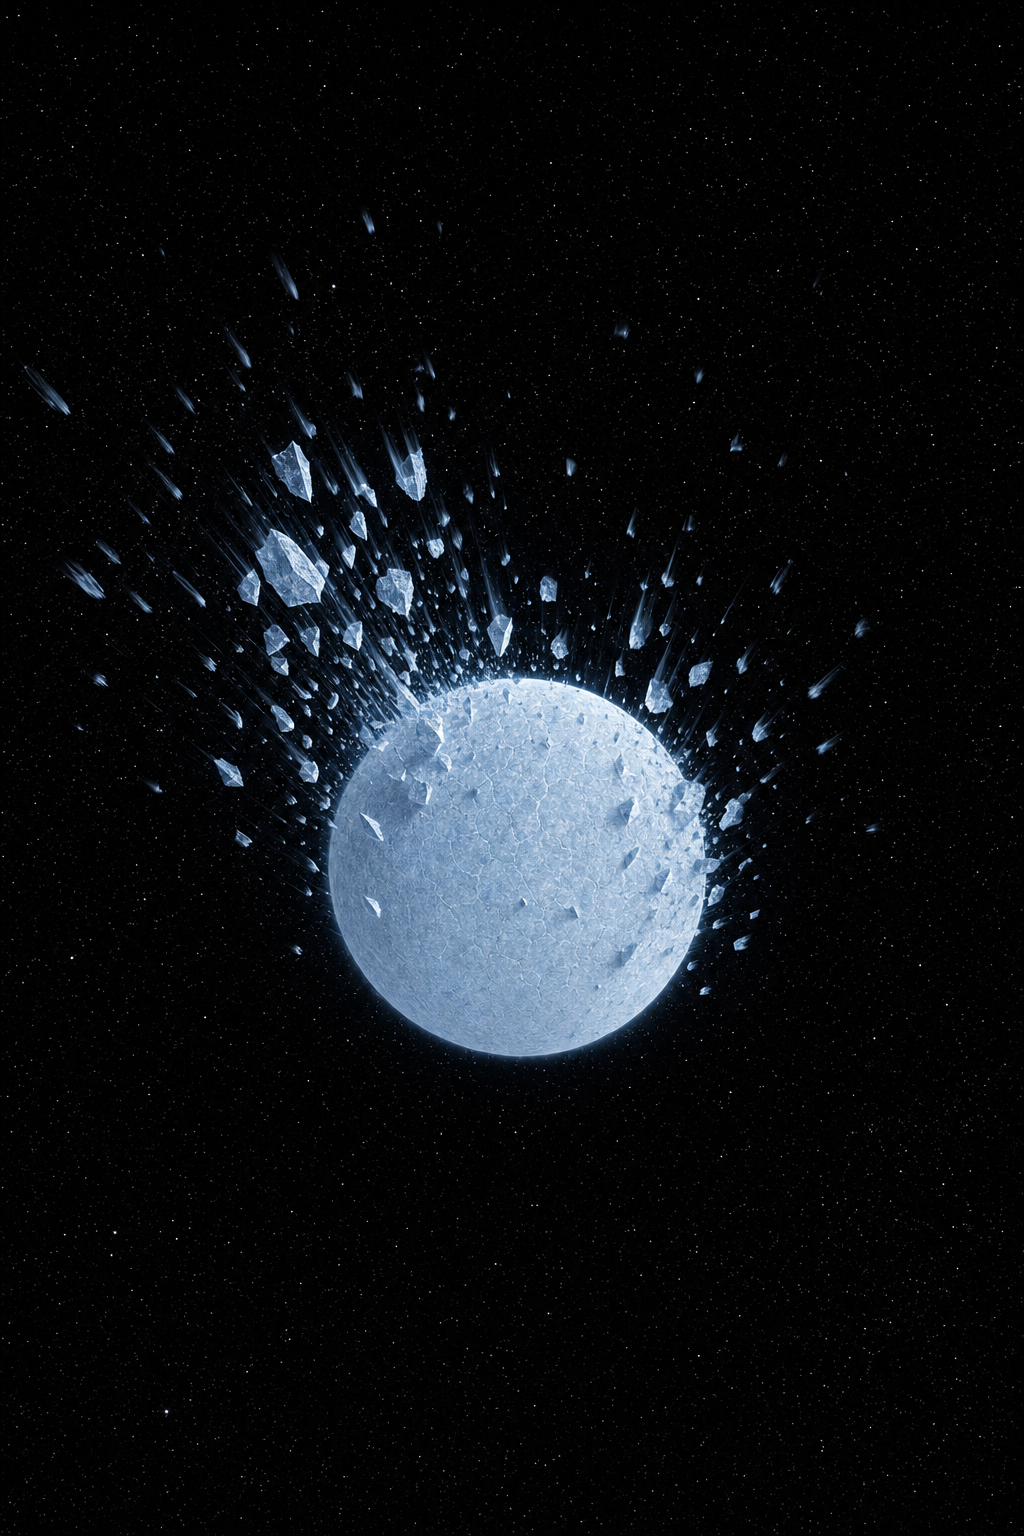
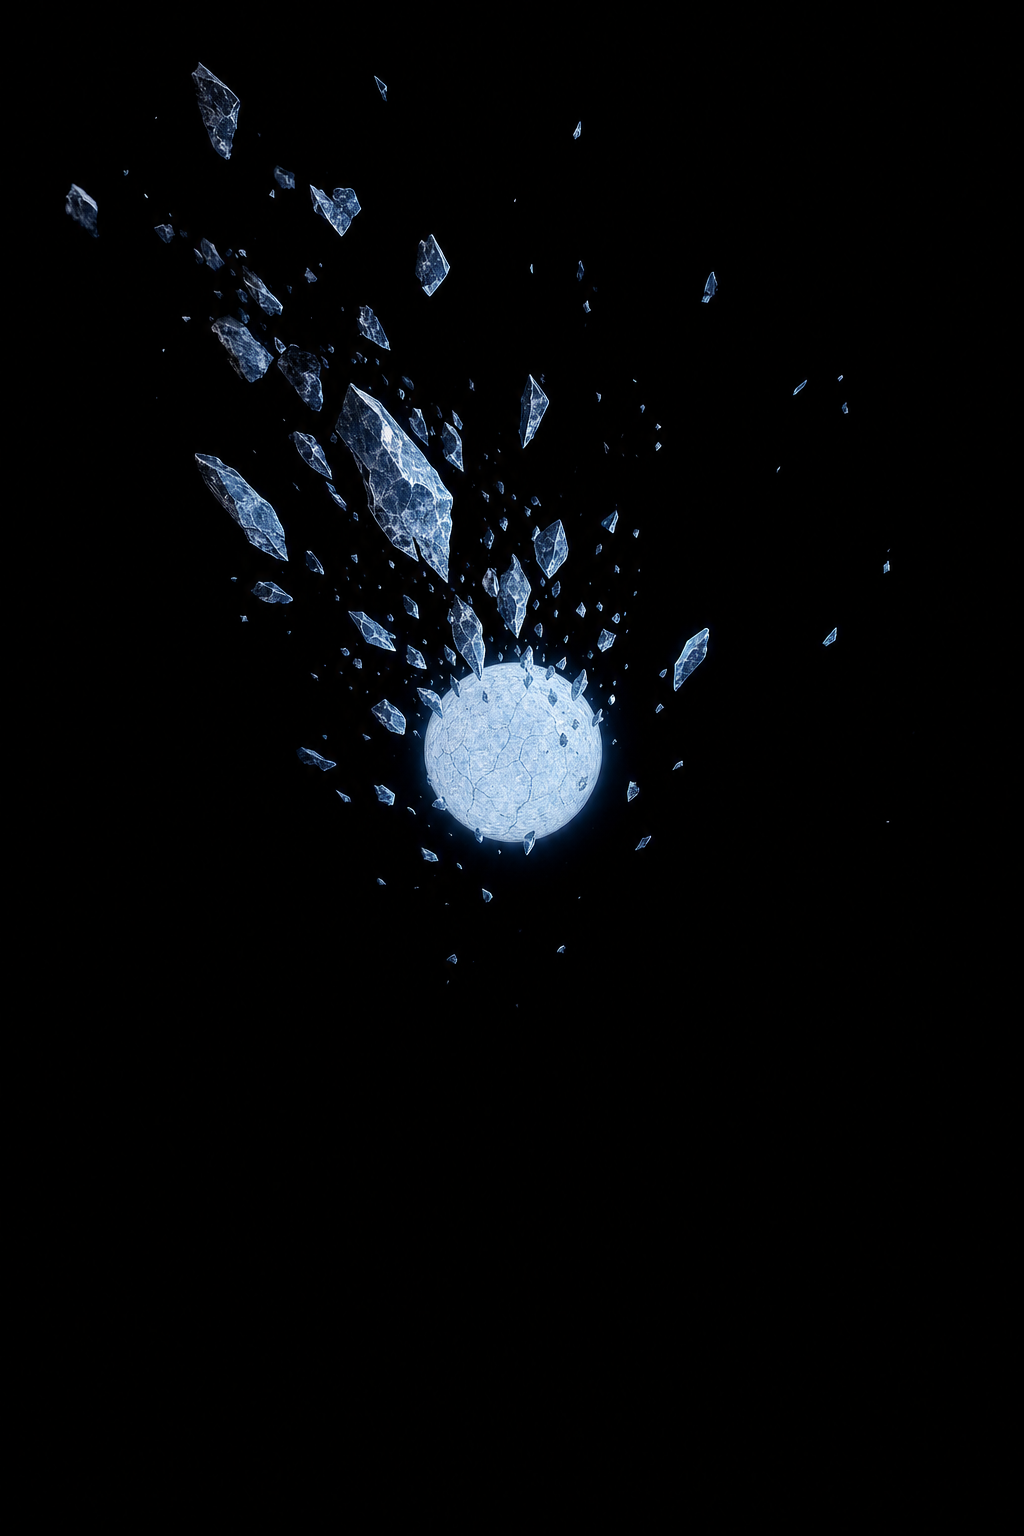
refactor: enhance episode 7 prompts and visuals for clarity and consistency
Updated the shot descriptions in `CHANDRASEKHAR_PROMPTS.md` and `science_prompts.py` to improve clarity and visual coherence, focusing on the depiction of solid blue-white dwarf stars. Added new still images and reference files in the `i2v_stills` directory to support the revised content. This update aims to enhance viewer engagement and maintain consistency across the series.

diff --git a/local_runner/science_prompts.py b/local_runner/science_prompts.py
@@ -461,15 +461,27 @@ _EP07_BEATS = [
         "pause_ms": 280,
         "num_frames": 153,
         "shot": (
-            "Cinematic locked medium shot, one frozen moment: the SAME solid white "
-            "dwarf star at the same size and same center of frame, perfectly circular "
-            "silhouette, filled opaque disk, a steady stream of glowing gas landing on "
-            "its upper edge, its hard blue-white crust already split by sharp jagged "
-            "fracture lines, blinding white-gold light glowing up through the cracks "
-            "from a bright solid core beneath, crust plates rigid and rock-like, round "
-            "edge fully intact, pure black void, photoreal cinematic CGI, vertical "
-            "9:16, locked camera, no people, no faces, NO text, NO letters, NO logos, "
-            "no watermarks, not melting goo, not a soft blob, not a ring, not hollow"
+            "Cinematic locked medium shot, one frozen moment: the SAME solid "
+            "blue-white white dwarf star as shot 1, same center of frame, the same "
+            "size or slightly smaller (the disk spans about two-thirds of the frame "
+            "width and never more), perfectly sharp circular silhouette, filled "
+            "opaque disk. A broad, diffuse curtain of pale blue-white gas arcs in "
+            "from off-frame at the lower left and upper right and pours onto the "
+            "star, spreading across a wide patch of its upper-left surface as a "
+            "low, flat glowing splash that hugs the crust. The mass lands on the "
+            "surface; it does not shoot out from it. The star's hard, rigid, "
+            "rock-like blue-white crust is split by sharp jagged fracture lines, "
+            "with cool white light glowing up through the cracks from a bright "
+            "solid core beneath. The crust plates are rigid and unbroken in shape, "
+            "the round edge fully intact, and the only light comes from the "
+            "surface, the cracks and the infall. At most one faint thin secondary "
+            "wisp near the edge, far dimmer than the infall. Pure black void, cool "
+            "blue-white palette throughout, photoreal cinematic CGI, vertical 9:16, "
+            "locked camera, no people, no faces, NO text, NO letters, NO logos, no "
+            "watermarks, NO polar jet, no beam, no light column, no pillar, no "
+            "bipolar outflow, no vertical shaft of light from the top or bottom of "
+            "the star, no gold, no orange, not melting goo, not a soft blob, not a "
+            "ring, not hollow, no halo"
         ),
     },
     {
@@ -481,16 +493,26 @@ _EP07_BEATS = [
         # Collapse as a SOLID ball already smaller; ep06 shot4 lesson:
         # never let the center read as a swirl, hole, vortex or portal.
         "shot": (
-            "Cinematic locked close-up, one frozen moment: the SAME white dwarf star "
-            "already collapsed to a visibly smaller solid sphere at the same center of "
-            "frame, perfectly circular silhouette, filled opaque disk, blazing "
-            "white-hot solid surface, a thin shell of broken blue-white crust plates "
-            "caught mid-fall just outside its edge as sharp distinct glowing "
-            "fragments, bright evenly lit center with a solid surface all the way "
-            "across, pure black void, photoreal cinematic CGI, vertical 9:16, locked "
-            "camera, no people, no faces, NO text, NO letters, NO logos, no watermarks, "
-            "no swirl, no hole, no vortex, no portal, no lensing, no dark center, not "
-            "a plasma blob, not a ring"
+            "Cinematic locked close-up, one frozen moment: the SAME solid "
+            "blue-white white dwarf star, already collapsed, occupying ONLY about "
+            "one quarter to one third of the frame width (much smaller than a "
+            "full-frame star), same center of frame. Perfectly sharp circular "
+            "silhouette, filled opaque disk, blazing cool blue-white solid surface "
+            "evenly lit all the way across, cracked crust with fine jagged fracture "
+            "lines. Broken blue-white crust shards fall INWARD toward the surface "
+            "only — denser and larger near the sphere, thinning farther out, "
+            "asymmetrical lopsided cluster mainly on the upper-left and right, "
+            "lower half nearly empty. Each shard is a sharp angular rock-like "
+            "fragment elongated toward the center as if gravity is pulling it down "
+            "onto the crust; some shards are touching or striking the surface. "
+            "Irregular clumped spacing with large empty gaps; shards never trace a "
+            "circle around the edge. Pure black void, cool blue-white palette only, "
+            "photoreal cinematic CGI, vertical 9:16, locked camera, no people, no "
+            "faces, NO text, NO letters, NO logos, no watermarks. HARD BANS: NO "
+            "ring of shards, NO halo, NO orbit, NO evenly spaced perimeter debris, "
+            "NO doughnut, NO torus, NO portal, NO swirl, NO hole, NO vortex, NO "
+            "lensing, NO dark center, NO outward explosion streaks, NO motion blur "
+            "trails shooting away, NO gold, NO orange, not a plasma blob"
         ),
     },
     {
@@ -503,16 +525,23 @@ _EP07_BEATS = [
         # hollow ring (ring/shell read as portal in ep06 QC).
         "shot": (
             "Cinematic locked ultra-wide shot, one frozen moment just after the "
-            "explosion: a small blinding solid white-gold sphere at the exact center "
-            "of frame, perfectly circular silhouette, filled opaque disk, surrounded "
-            "by sharp glowing rock-like crust shards and bright debris streaks frozen "
-            "at many different distances from center, a cloud of filamentary "
-            "white-gold and blue gas with crisp filament edges filling the whole "
-            "frame, bright and dense near the core, never a clean outer edge, deep "
-            "black void, photoreal cinematic CGI, vertical 9:16, locked camera, no "
-            "people, no faces, NO text, NO letters, NO logos, no watermarks, not a "
-            "ring, not a hollow circle, no hole, no vortex, no portal, no dark "
-            "center, not blurry smoke"
+            "explosion: a small, blinding, solid blue-white sphere at the exact "
+            "center of frame, about one sixth of the frame width, perfectly sharp "
+            "circular silhouette, filled opaque disk, the SAME star identity as "
+            "shot 1. Around it hang sharp, chunky, angular rock-like crust shards "
+            "in cool blue-white and silver. They are frozen at many different "
+            "distances from the center, tilted at random angles, and scattered "
+            "unevenly in clumps with empty gaps. They are discrete solid fragments, "
+            "not motion streaks. Lumpy, patchy clouds of filamentary pale-blue and "
+            "white gas with crisp, torn filament edges fill the frame unevenly: "
+            "bright and dense near the core, broken and asymmetrical farther out, "
+            "never a clean outer edge. Deep black void, strictly cool blue-white "
+            "and silver palette, photoreal cinematic CGI, vertical 9:16, locked "
+            "camera, no people, no faces, NO text, NO letters, NO logos, no "
+            "watermarks, NO radial streaks, NO speed lines, NO light tunnel, NO "
+            "starburst rays, NO warp-speed effect, NO vortex, NO swirl, no gold, no "
+            "amber, no orange, no warm tones, not a ring, not a hollow circle, no "
+            "hole, no portal, no dark center, not blurry smoke"
         ),
     },
 ]

diff --git a/local_runner/i2v_stills/sci_ep07_chandrasekhar/_refs/claude_ep07_regen_prompts.md b/local_runner/i2v_stills/sci_ep07_chandrasekhar/_refs/claude_ep07_regen_prompts.md
@@ -1,0 +1,25 @@
+## Shot 2 still prompt
+Cinematic locked medium shot, one frozen moment: the SAME solid blue-white white dwarf star as shot 1, same center of frame, the same size or slightly smaller (the disk spans about two-thirds of the frame width and never more), perfectly sharp circular silhouette, filled opaque disk. A broad, diffuse curtain of pale blue-white gas arcs in from off-frame at the lower left and upper right and pours onto the star, spreading across a wide patch of its upper-left surface as a low, flat glowing splash that hugs the crust. The mass lands on the surface; it does not shoot out from it. The star's hard, rigid, rock-like blue-white crust is split by sharp jagged fracture lines, with cool white light glowing up through the cracks from a bright solid core beneath. The crust plates are rigid and unbroken in shape, the round edge fully intact, and the only light comes from the surface, the cracks and the infalling gas. At most one faint thin secondary wisp near the edge, far dimmer than the infall. Pure black void, cool blue-white palette throughout, photoreal cinematic CGI, vertical 9:16, locked camera, no people, no faces, NO text, NO letters, NO logos, no watermarks, NO polar jet, no beam, no light column, no pillar, no bipolar outflow, no vertical shaft of light from the top or bottom of the star, no gold, no orange, not melting goo, not a soft blob, not a ring, not hollow, no halo
+
+## Shot 3 still prompt
+Cinematic locked close-up, one frozen moment: the SAME solid blue-white white dwarf star as shot 1, already collapsed to a clearly smaller sphere at the same center of frame. The disk spans only about one quarter to one third of the frame width, much smaller than in shot 1. Perfectly sharp circular silhouette, filled opaque disk, a bright blue-white solid surface evenly lit all the way across, with a cracked crust of fine jagged fracture lines. Broken blue-white crust shards are caught mid-fall, dropping INWARD onto the surface. They are asymmetrical: a dense lopsided cluster over the upper-left and right side, packed tightly just above the crust and thinning quickly farther out, while the lower half is mostly bare, with only a few scattered fragments. Each shard is a sharp angular rock-like fragment, stretched into a short streak that points straight at the star's center, as if pulled down onto it. Some shards are touching or striking the surface. Spacing is irregular and clumped, with large empty gaps, and the shards never trace the outline of the sphere. Pure black void, cool blue-white palette, photoreal cinematic CGI, vertical 9:16, locked camera, no people, no faces, NO text, NO letters, NO logos, no watermarks, NO ring of shards, NO halo, NO orbit, no shards evenly spaced around the edge, no circular perimeter of debris, no doughnut, no torus, no portal, no swirl, no hole, no vortex, no lensing, no dark center, not a plasma blob, no gold
+
+## Shot 4 still prompt
+Cinematic locked ultra-wide shot, one frozen moment just after the explosion: a small, blinding, solid blue-white sphere at the exact center of frame, about one sixth of the frame width, perfectly sharp circular silhouette, filled opaque disk, the SAME star identity as shot 1. Around it hang sharp, chunky, angular rock-like crust shards in cool blue-white and silver. They are frozen at many different distances from the center, tilted at random angles, and scattered unevenly in clumps with empty gaps. They are discrete solid fragments, not motion streaks. Lumpy, patchy clouds of filamentary pale-blue and white gas with crisp, torn filament edges fill the frame unevenly: bright and dense near the core, broken and asymmetrical farther out, never a clean outer edge. Deep black void, strictly cool blue-white and silver palette, photoreal cinematic CGI, vertical 9:16, locked camera, no people, no faces, NO text, NO letters, NO logos, no watermarks, NO radial streaks, NO speed lines, NO light tunnel, NO starburst rays, NO warp-speed effect, NO vortex, NO swirl, no gold, no amber, no orange, no warm tones, not a ring, not a hollow circle, no hole, no portal, no dark center, not blurry smoke
+
+## Prompt deltas
+- **All shots:** I added an explicit identity lock ("SAME solid blue-white white dwarf star as shot 1") and exact size fractions for each shot: shot 2 is about ⅔ of the frame width and no larger, shot 3 is ¼–⅓, and shot 4's core is about ⅙.
+- **All shots:** I removed every use of "white-gold" and "gold" and locked the palette to cool blue-white and silver. The warm gold in the base prompts fed the shot 4 gold tunnel and ran against the shot 1 look.
+- **Shot 2 (polar jet fail):** I replaced "a steady stream of glowing gas landing on its upper edge" with a broad, diffuse curtain arcing in from off-frame at lower left and upper right. A single stream hitting the top of the star is what the model turns into a polar jet. The new wording has the gas coming in from the sides, so it has no vertical axis.
+- **Shot 2:** I added "pours onto", "low flat splash that hugs the crust" and "lands on the surface; it does not shoot out from it" so the direction reads as incoming.
+- **Shot 2:** I allowed at most one faint thin secondary wisp, as your brief permits. I also banned the jet explicitly: no polar jet, beam, light column, pillar, bipolar outflow, or vertical light shaft.
+- **Shot 2:** I changed "blinding white-gold light" to "cool white light" and said the only light comes from the surface, cracks and infall, so there's no other place for a jet to start.
+- **Shot 3 (halo/ring fail):** I deleted "a thin shell of broken crust plates just outside its edge". The word "shell" is what produced the circular band of shards.
+- **Shot 3:** In its place, the shards form a lopsided cluster over the upper-left and right, packed close to the surface and thinning outward, with the lower half mostly bare. Each shard is stretched toward the center, some are touching or striking the surface, and the spacing is clumped with gaps.
+- **Shot 3:** The prompt says the shards never trace the outline of the sphere, and it bans a shard ring, halo, orbit, even spacing, circular perimeter, doughnut, torus and portal.
+- **Shot 3:** I added "cracked crust of fine jagged fracture lines" and "evenly lit all the way across" to keep the surface solid and opaque.
+- **Shot 4 (gold tunnel fail):** I removed "bright debris streaks". Streaks pointing out from the center are what become tunnel and warp-speed lines. The debris is now chunky angular shards tilted at random angles, described as "not motion streaks".
+- **Shot 4:** The gas clouds are now lumpy, patchy, broken and asymmetrical, so they can't settle into a symmetric vortex or tunnel.
+- **Shot 4:** I banned the tunnel look explicitly: no radial streaks, speed lines, light tunnel, starburst rays, warp-speed effect, vortex or swirl, and no gold, amber, orange or warm tones.
+- **Shot 4:** I kept "small blinding solid sphere, filled opaque disk" so the bright solid center stays.
+- **Not changed:** Shot 1 and the VO are untouched. All three prompts still describe a single frozen moment with a locked camera.

diff --git a/local_runner/CHANDRASEKHAR_PROMPTS.md b/local_runner/CHANDRASEKHAR_PROMPTS.md
@@ -28,7 +28,7 @@ Cinematic locked wide shot, one frozen moment: a single small solid white dwarf 
 **Frames:** 153 · **Rate:** +0% · **Pause:** 280 ms
 
 ```
-Cinematic locked medium shot, one frozen moment: the SAME solid white dwarf star at the same size and same center of frame, perfectly circular silhouette, filled opaque disk, a steady stream of glowing gas landing on its upper edge, its hard blue-white crust already split by sharp jagged fracture lines, blinding white-gold light glowing up through the cracks from a bright solid core beneath, crust plates rigid and rock-like, round edge fully intact, pure black void, photoreal cinematic CGI, vertical 9:16, locked camera, no people, no faces, NO text, NO letters, NO logos, no watermarks, not melting goo, not a soft blob, not a ring, not hollow
+Cinematic locked medium shot, one frozen moment: the SAME solid blue-white white dwarf star as shot 1, same center of frame, the same size or slightly smaller (the disk spans about two-thirds of the frame width and never more), perfectly sharp circular silhouette, filled opaque disk. A broad, diffuse curtain of pale blue-white gas arcs in from off-frame at the lower left and upper right and pours onto the star, spreading across a wide patch of its upper-left surface as a low, flat glowing splash that hugs the crust. The mass lands on the surface; it does not shoot out from it. The star's hard, rigid, rock-like blue-white crust is split by sharp jagged fracture lines, with cool white light glowing up through the cracks from a bright solid core beneath. The crust plates are rigid and unbroken in shape, the round edge fully intact, and the only light comes from the surface, the cracks and the infall. At most one faint thin secondary wisp near the edge, far dimmer than the infall. Pure black void, cool blue-white palette throughout, photoreal cinematic CGI, vertical 9:16, locked camera, no people, no faces, NO text, NO letters, NO logos, no watermarks, NO polar jet, no beam, no light column, no pillar, no bipolar outflow, no vertical shaft of light from the top or bottom of the star, no gold, no orange, not melting goo, not a soft blob, not a ring, not hollow, no halo
 ```
 
 ## Beat 3
@@ -38,7 +38,7 @@ Cinematic locked medium shot, one frozen moment: the SAME solid white dwarf star
 **Frames:** 169 · **Rate:** -4% · **Pause:** 280 ms
 
 ```
-Cinematic locked close-up, one frozen moment: the SAME white dwarf star already collapsed to a visibly smaller solid sphere at the same center of frame, perfectly circular silhouette, filled opaque disk, blazing white-hot solid surface, a thin shell of broken blue-white crust plates caught mid-fall just outside its edge as sharp distinct glowing fragments, bright evenly lit center with a solid surface all the way across, pure black void, photoreal cinematic CGI, vertical 9:16, locked camera, no people, no faces, NO text, NO letters, NO logos, no watermarks, no swirl, no hole, no vortex, no portal, no lensing, no dark center, not a plasma blob, not a ring
+Cinematic locked close-up, one frozen moment: the SAME solid blue-white white dwarf star, already collapsed, occupying ONLY about one quarter to one third of the frame width (much smaller than a full-frame star), same center of frame. Perfectly sharp circular silhouette, filled opaque disk, blazing cool blue-white solid surface evenly lit all the way across, cracked crust with fine jagged fracture lines. Broken blue-white crust shards fall INWARD toward the surface only — denser and larger near the sphere, thinning farther out, asymmetrical lopsided cluster mainly on the upper-left and right, lower half nearly empty. Each shard is a sharp angular rock-like fragment elongated toward the center as if gravity is pulling it down onto the crust; some shards are touching or striking the surface. Irregular clumped spacing with large empty gaps; shards never trace a circle around the edge. Pure black void, cool blue-white palette only, photoreal cinematic CGI, vertical 9:16, locked camera, no people, no faces, NO text, NO letters, NO logos, no watermarks. HARD BANS: NO ring of shards, NO halo, NO orbit, NO evenly spaced perimeter debris, NO doughnut, NO torus, NO portal, NO swirl, NO hole, NO vortex, NO lensing, NO dark center, NO outward explosion streaks, NO motion blur trails shooting away, NO gold, NO orange, not a plasma blob
 ```
 
 ## Beat 4
@@ -48,5 +48,5 @@ Cinematic locked close-up, one frozen moment: the SAME white dwarf star already 
 **Frames:** 145 · **Rate:** -12% · **Pause:** 200 ms
 
 ```
-Cinematic locked ultra-wide shot, one frozen moment just after the explosion: a small blinding solid white-gold sphere at the exact center of frame, perfectly circular silhouette, filled opaque disk, surrounded by sharp glowing rock-like crust shards and bright debris streaks frozen at many different distances from center, a cloud of filamentary white-gold and blue gas with crisp filament edges filling the whole frame, bright and dense near the core, never a clean outer edge, deep black void, photoreal cinematic CGI, vertical 9:16, locked camera, no people, no faces, NO text, NO letters, NO logos, no watermarks, not a ring, not a hollow circle, no hole, no vortex, no portal, no dark center, not blurry smoke
+Cinematic locked ultra-wide shot, one frozen moment just after the explosion: a small, blinding, solid blue-white sphere at the exact center of frame, about one sixth of the frame width, perfectly sharp circular silhouette, filled opaque disk, the SAME star identity as shot 1. Around it hang sharp, chunky, angular rock-like crust shards in cool blue-white and silver. They are frozen at many different distances from the center, tilted at random angles, and scattered unevenly in clumps with empty gaps. They are discrete solid fragments, not motion streaks. Lumpy, patchy clouds of filamentary pale-blue and white gas with crisp, torn filament edges fill the frame unevenly: bright and dense near the core, broken and asymmetrical farther out, never a clean outer edge. Deep black void, strictly cool blue-white and silver palette, photoreal cinematic CGI, vertical 9:16, locked camera, no people, no faces, NO text, NO letters, NO logos, no watermarks, NO radial streaks, NO speed lines, NO light tunnel, NO starburst rays, NO warp-speed effect, NO vortex, NO swirl, no gold, no amber, no orange, no warm tones, not a ring, not a hollow circle, no hole, no portal, no dark center, not blurry smoke
 ```
